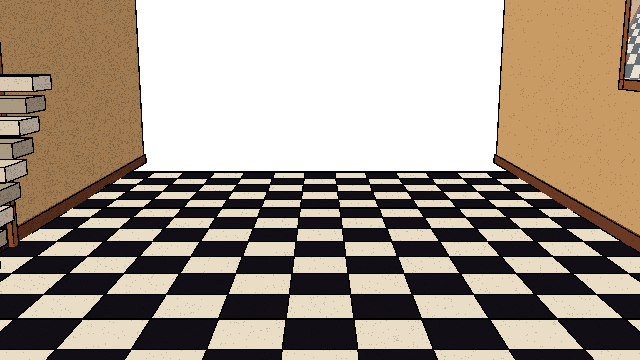
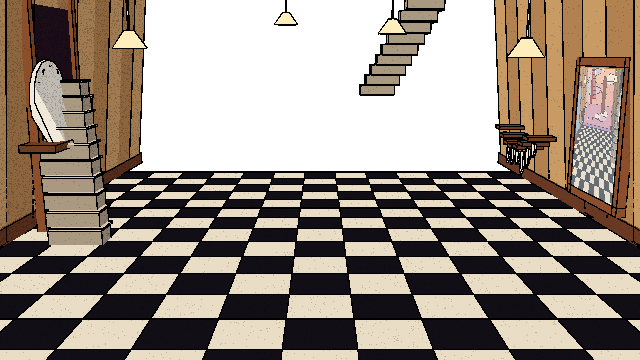
WIP LOST: the dream room in view (split moon, upside-down stairs, lamps, window showing the room), counter drawn correctly in front of him, speech wraps
Claude-Session: https://claude.ai/code/session_01K2bHiqG1reMF1nXkDzraJv

diff --git a/src/scenes/LostScene.js b/src/scenes/LostScene.js
@@ -36,6 +36,7 @@ const TALK = { per: 2, hold: 130, w: 470, y: 10 };
 // how far his pupils can slide toward what he's watching (in texels of the face drawing)
 const GAZE = { sal: [1.3, 0.7], hanz: [1.6, 1.4] };
 
+/** The LOST room: HANZ / $@L behind his counter in the dream (see the top of this file). */
 export class LostScene extends Phaser.Scene {
   constructor() { super('Lost'); }
 
@@ -201,7 +202,8 @@ export class LostScene extends Phaser.Scene {
     for (const wd of words) {
       const t = this.add.text(0, 0, wd.w, { fontFamily: FONT, fontSize: '8px', color: LOST_COLORS[wd.who], stroke: '#000000', strokeThickness: 3 }).setDepth(22);
       if (x + t.width > TALK.w && x > 0) { x = 0; y += 13; lines.push([]); }
-      t.setPosition(x, y); t.full = wd.w; t.who = wd.who; t.setText(''); x += t.width || this.measure(wd.w); lines[lines.length - 1].push(t); this.words.push(t);
+      const tw = t.width;                                                       // (measured before it's blanked for typing)
+      t.setPosition(x, y); t.full = wd.w; t.who = wd.who; t.setText(''); x += tw; lines[lines.length - 1].push(t); this.words.push(t);
     }
     // centre each row
     for (const row of lines) { const w = row.reduce((a, t) => a + this.measure(t.full), 0); let xx = (VIEW_W - w) / 2; for (const t of row) { t.x = xx; t.y += TALK.y + 8; xx += this.measure(t.full); } }

diff --git a/src/progress.js b/src/progress.js
@@ -38,7 +38,7 @@ try {
 } catch (e) { /* no URL */ }
 
 export function getCoins() { return shop.coins; }
-// LOST (the shop's last tab): who you let in by typing his name - 'HANZ' or '$@L' - saved for good; null = the room is still dark
+/** LOST (the shop's last tab): the name you typed to let him in - 'HANZ' or '$@L', saved for good; null = the room is still dark. */
 export function lostKeeper() { return shop.lost || null; }
 /** Unlocks LOST for good with the name you typed ('HANZ' or '$@L': that side greets you first). */
 export function setLostKeeper(code) { if (!shop.lost) { shop.lost = code; saveShop(); } }

diff --git a/tools/sprites/hanz_room.py b/tools/sprites/hanz_room.py
@@ -38,21 +38,20 @@ SHELF = 0x6a4028; TAG = 0xf0e8d8; GLASS = 0x9ab8c8
 def sky():
     """The sky: big flat bands across the back, high to low, and a few flat slab clouds."""
     m = H.Mesh()
-    top, bot = 700, -300
+    top, bot = 240, -860                          # (what the room's camera sees at the sky's distance)
     n = len(SKY)
     for i, c in enumerate(SKY):
         z1 = top - (top - bot) * i / n; z0 = top - (top - bot) * (i + 1) / n
         m.box((0, 1600, (z0 + z1) / 2), (4000, 4, z1 - z0 + 0.5), c)
     rng = np.random.default_rng(7)
     for i in range(9):
-        cx, cz = rng.uniform(-700, 700), rng.uniform(80, 420); w = rng.uniform(120, 260)
+        cx, cz = rng.uniform(-700, 700), rng.uniform(-260, 200); w = rng.uniform(120, 260)
         pts = [(cx + w * math.cos(a) * rng.uniform(0.7, 1), 1500 - rng.uniform(0, 40), cz + w * 0.18 * math.sin(a) * rng.uniform(0.6, 1)) for a in np.linspace(0, 2 * math.pi, 10)[:-1]]
         m.hull(pts + [(x, y - 12, z) for x, y, z in pts], CLOUD if i % 2 else CLOUD2)
     # his moon: a big disc split down the middle, grey on HANZ's side, red on $@L's
     mo = H.Mesh()
     for side, col in ((-1, 0xb8121c), (1, 0xd2d0cc)):
-        pts = [(220 + side * abs(90 * math.sin(a)) * (1 if side > 0 else 1), 1450, 330 + 90 * math.cos(a)) for a in np.linspace(0, math.pi, 9)]
-        pts = [(220 + side * 90 * math.sin(a), 1450, 330 + 90 * math.cos(a)) for a in np.linspace(0, math.pi, 9)] + [(220, 1450, 240), (220, 1450, 420)]
+        pts = [(300 + side * 110 * math.sin(a), 1450, 40 + 110 * math.cos(a)) for a in np.linspace(0, math.pi, 9)] + [(300, 1450, -70), (300, 1450, 150)]
         mo.hull(pts + [(x, y - 4, z) for x, y, z in pts], col)
     return {'sky': m, 'moon': mo}
 
@@ -96,51 +95,52 @@ def room():
         st.box((x, y + 4, z + 6.5), (44, 26, 1.5), STAIR)                            # tread
     # its twin hanging upside down from the sky, climbing the wrong way
     for k in range(10):
-        x, y, z = 150 - k * 6, 560 + k * 10, 420 - k * 14
+        x, y, z = 130 - k * 6, 560 + k * 10, 150 - k * 13
         st.box((x, y, z), (44, 22, 12), STAIR2); st.box((x, y + 4, z - 6.5), (44, 26, 1.5), STAIR)
     parts['door'] = d; parts['stairs'] = st
     # the window on the right wall, nearer and bigger (its pane shows this room: second pass)
     win = H.Mesh()
-    WY, WZ, HW, HH = 150, 120, 56, 70
+    WY, WZ, HW, HH = 360, 10, 50, 62
     for k in (-1, 1):
-        win.box((236, WY + k * HW, WZ), (8, 8, HH * 2 + 8), DOORF)
-        win.box((236, WY, WZ + k * HH), (8, HW * 2 + 8, 8), DOORF)
-    win.box((236, WY, WZ), (4, 2, HH * 2), DOORF)
+        win.box((252, WY + k * HW, WZ), (8, 8, HH * 2 + 8), DOORF)
+        win.box((252, WY, WZ + k * HH), (8, HW * 2 + 8, 8), DOORF)
+    win.box((252, WY, WZ), (4, 2, HH * 2), DOORF)
     parts['window'] = win
     pane = H.Mesh()
-    pane.hull([(x, y, z) for x in (233, 234) for y in (WY - HW, WY + HW) for z in (WZ - HH, WZ + HH)], GLASS)
+    pane.hull([(x, y, z) for x in (249, 250) for y in (WY - HW, WY + HW) for z in (WZ - HH, WZ + HH)], GLASS)
     parts['pane'] = pane
     # a big clock melting off a shelf on the left wall, near the front
     cl = H.Mesh()
-    CY, CZ, R = 40, 150, 34
-    cl.box((-228, CY, CZ - R - 4), (30, 90, 6), SHELF)
+    CY, CZ, R = 350, 40, 34
+    WX = -246                                         # (the wall's face at that height)
+    cl.box((WX + 14, CY, CZ - R - 4), (30, 90, 6), SHELF)
     rim, face = [], []
     for k in range(16):
         a = 2 * math.pi * k / 16
         y, z = CY + R * math.cos(a), CZ + R * math.sin(a)
-        x = -222
+        x = WX + 6
         if z < CZ - R * 0.4:                                                          # the bottom slumps over the shelf edge
-            sag = (CZ - R * 0.4 - z); x = -222 + sag * 0.9; z = CZ - R - 2 - sag * 0.15
+            sag = (CZ - R * 0.4 - z); x = WX + 6 + sag * 0.9; z = CZ - R - 2 - sag * 0.15
         rim.append((x, y, z))
     cl.hull(rim + [(x + 4, y, z) for x, y, z in rim], TAG)
-    cl.hull([(-196, CY - 14, CZ - R - 1), (-196, CY + 10, CZ - R - 1), (-190, CY - 4, CZ - R - 50), (-192, CY + 2, CZ - R - 70), (-189, CY - 2, CZ - R - 30)], TAG)   # the long drip
+    cl.hull([(WX + 32, CY - 14, CZ - R - 1), (WX + 32, CY + 10, CZ - R - 1), (WX + 38, CY - 4, CZ - R - 50), (WX + 36, CY + 2, CZ - R - 70), (WX + 39, CY - 2, CZ - R - 30)], TAG)   # the long drip
     for k in range(12):
         a = 2 * math.pi * k / 12
-        cl.box((-217, CY + 27 * math.cos(a), CZ + 27 * math.sin(a)), (1, 4, 4), H.INKC)
-    cl.box((-217, CY + 10, CZ + 2), (1, 22, 3), H.INKC); cl.box((-217, CY - 1, CZ + 12), (1, 3, 22), H.INKC)
+        cl.box((WX + 11, CY + 27 * math.cos(a), CZ + 27 * math.sin(a)), (1, 4, 4), H.INKC)
+    cl.box((WX + 11, CY + 10, CZ + 2), (1, 22, 3), H.INKC); cl.box((WX + 11, CY - 1, CZ + 12), (1, 3, 22), H.INKC)
     parts['clock'] = cl
     # a sagging shelf of price tags on the right wall, near the front
     sh = H.Mesh()
     for k in range(7):
-        y = -40 + k * 18; sag = math.sin(k / 6 * math.pi) * 16
-        sh.box((228, y, 40 - sag), (30, 18, 4), SHELF)
+        y = 470 + k * 18; sag = math.sin(k / 6 * math.pi) * 16
+        sh.box((236, y, -10 - sag), (30, 18, 4), SHELF)
         drip = 16 + k % 3 * 6
-        sh.hull([(222, y - 5, 34 - sag), (222, y + 5, 34 - sag), (222, y + 4, 34 - sag - drip), (222, y - 4, 34 - sag - drip * 0.7),
-                 (224, y - 5, 34 - sag), (224, y + 5, 34 - sag), (224, y + 4, 34 - sag - drip), (224, y - 4, 34 - sag - drip * 0.7)], TAG)
+        sh.hull([(230, y - 5, -16 - sag), (230, y + 5, -16 - sag), (230, y + 4, -16 - sag - drip), (230, y - 4, -16 - sag - drip * 0.7),
+                 (232, y - 5, -16 - sag), (232, y + 5, -16 - sag), (232, y + 4, -16 - sag - drip), (232, y - 4, -16 - sag - drip * 0.7)], TAG)
     parts['shelf'] = sh
     # lamps on cords running up into the sky
     lp = H.Mesh()
-    for (x, y, z) in ((-160, 60, 175), (165, 90, 205), (-60, 380, 260), (90, 300, 250)):
+    for (x, y, z) in ((-150, 300, 95), (150, 260, 88), (-40, 560, 125), (70, 420, 110)):
         lp.box((x, y, z + 300), (1.2, 1.2, 600), CORD)
         lp.hull([(x + 14 * math.cos(a), y + 14 * math.sin(a), z - 12) for a in np.linspace(0, 2 * math.pi, 7)[:-1]]
                 + [(x + 4 * math.cos(a), y + 4 * math.sin(a), z + 2) for a in np.linspace(0, 2 * math.pi, 5)[:-1]], LAMP)
@@ -151,8 +151,8 @@ def room():
 def floaters():
     """Things drifting in the open sky behind the room: a door standing on nothing, loose floor tiles."""
     f = H.Mesh()
-    f.box((60, 900, 160), (70, 6, 150), DOOR); f.box((60, 897, 160), (78, 4, 158), DOORF)
-    f.box((84, 896, 150), (6, 2, 6), 0xd8b040)
+    f.box((-110, 900, 30), (70, 6, 150), DOOR); f.box((-110, 897, 30), (78, 4, 158), DOORF)
+    f.box((-86, 896, 20), (6, 2, 6), 0xd8b040)
     rng = np.random.default_rng(3)
     for i in range(12):
         x, y, z = rng.uniform(-420, 420), rng.uniform(750, 1300), rng.uniform(-200, 120)
@@ -233,7 +233,7 @@ def main():
     for poly in me.polygons:                                                      # (the picture laid across the pane)
         for li in poly.loop_indices:
             v = me.vertices[me.loops[li].vertex_index].co
-            uvl.data[li].uv = ((v.y - 94) / 112, (v.z - 50) / 140)
+            uvl.data[li].uv = ((v.y - 310) / 100, (v.z + 52) / 124)
     pane.data.materials.clear(); pane.data.materials.append(pane_material(os.path.join(bpy.app.tempdir or '/tmp', 'room_first.png')))
     skyl = shoot(tmp, ['sky', 'moon'])
     rooml = shoot(tmp, room_names)
